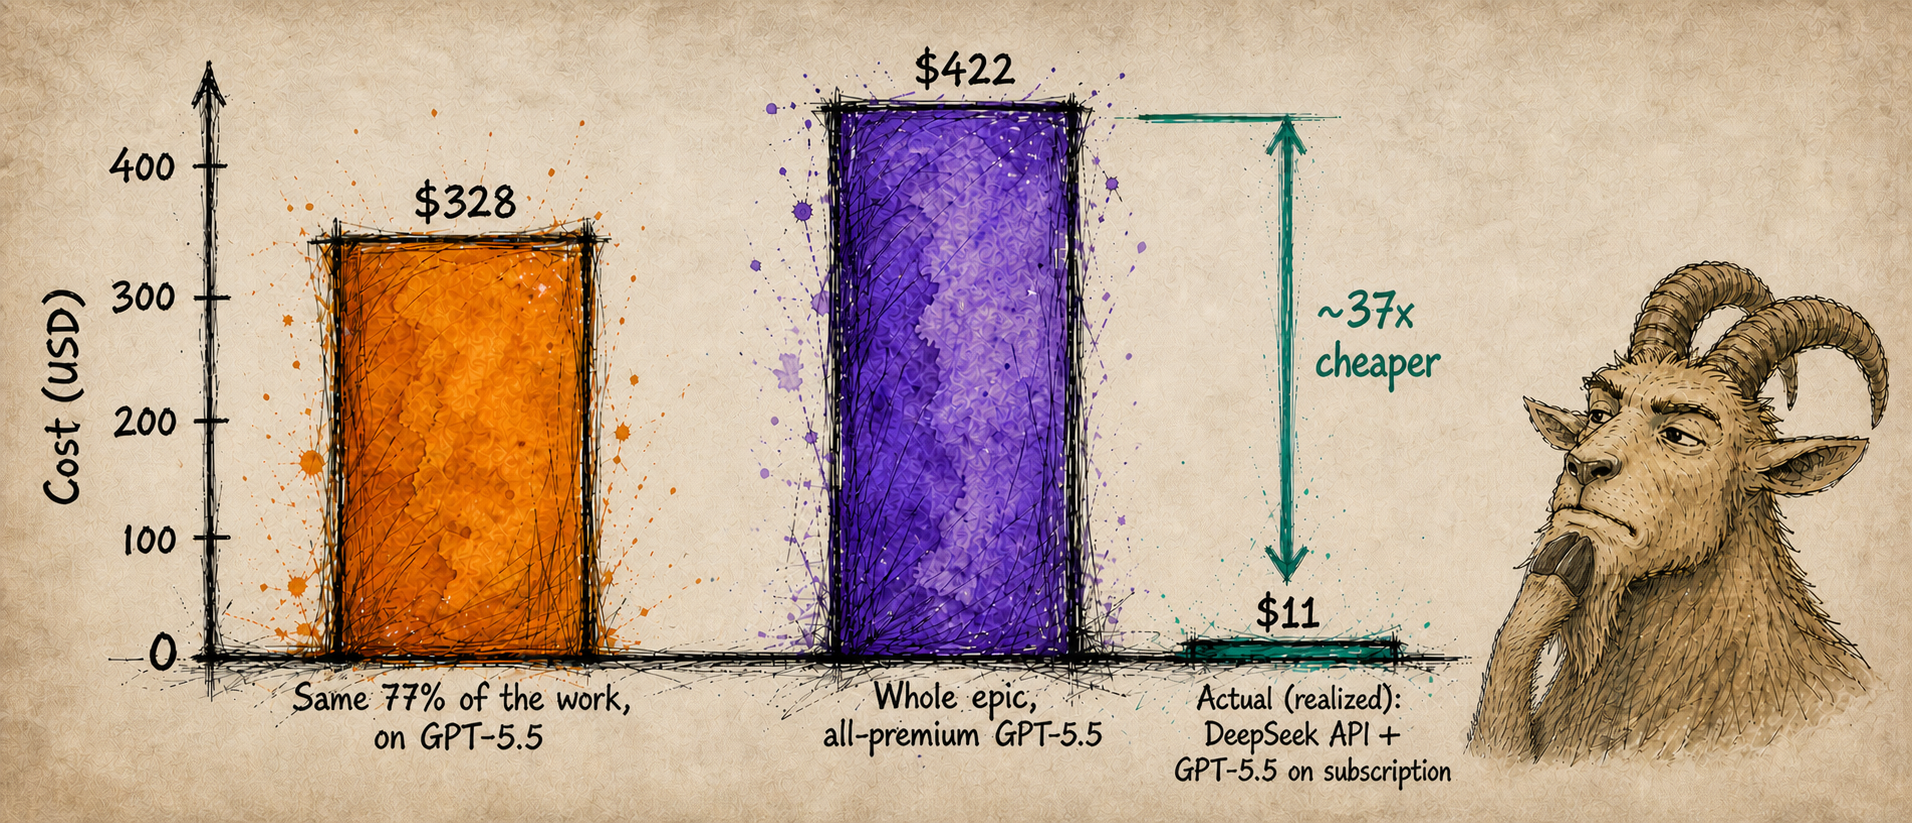
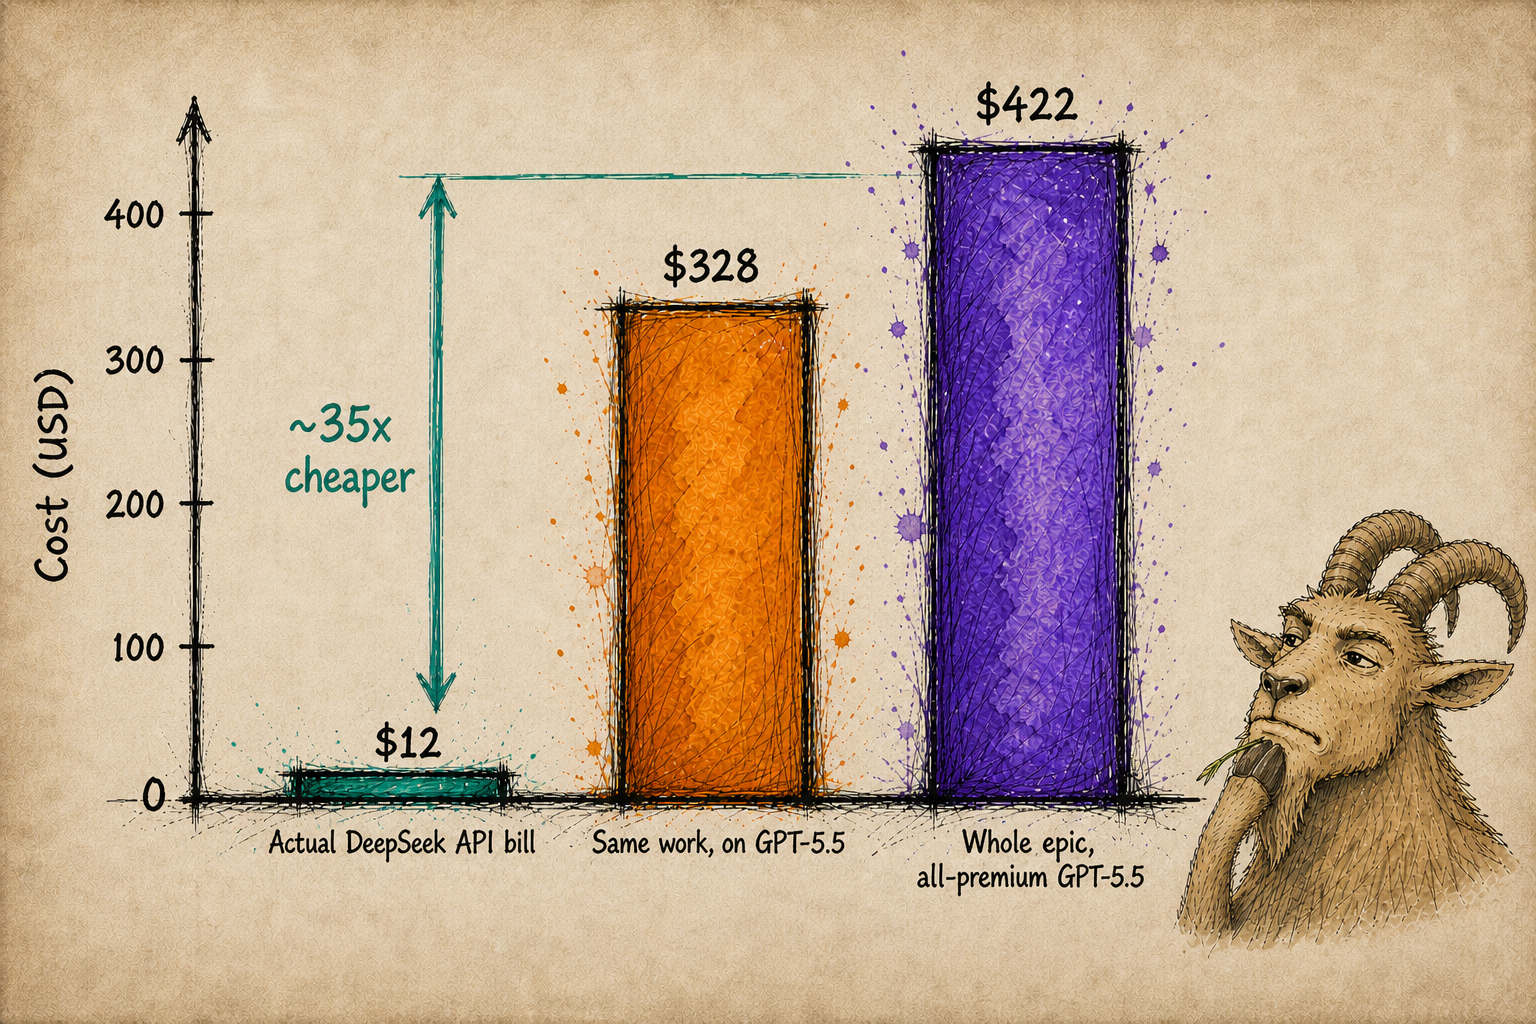
docs: reorder cost chart (realized left) + drop API price table
Regenerated scribble-cost-comparison.png: realized DeepSeek bill (~$12)
on the left, GPT-5.5 same-work ($328) and whole-epic ($422) bars equally
spaced to its right. Removed the per-model API price table from the intro.

diff --git a/docs/megaplan-intro.md b/docs/megaplan-intro.md
@@ -93,14 +93,7 @@ By hand, I'd budget this as multiple engineer-weeks — call it **4–8 weeks of
 
 ## What it actually cost: ~$12
 
-Real published API prices, May 2026:
-
-| Model | Input (cache-miss) | Cached input | Output |
-|---|---|---|---|
-| **DeepSeek V4 Pro** | $0.435 / M | $0.003625 / M | $0.87 / M |
-| **GPT-5.5** | $5.00 / M | $0.50 / M | $30.00 / M |
-
-![Cost: realized vs all-premium counterfactual](assets/scribble-cost-comparison.png)
+![Cost: realized DeepSeek bill vs. the same work and the whole epic priced on a premium API](assets/scribble-cost-comparison.png)
 
 **First, what the $12 is and isn't.** It's the real DeepSeek API bill for the work DeepSeek did — the ~78% of tokens that ran on it. The premium work (all planning and critique, plus M2 end-to-end) ran on a flat Codex/ChatGPT subscription I was already paying for, so its *marginal* cost was near zero — but a subscription I'd hold anyway isn't a true $0. So read $12 as the **DeepSeek line item**, and the honest like-for-like below as **DeepSeek API cost vs. the same work priced on a premium API** — both figures you can check against published rates.
 